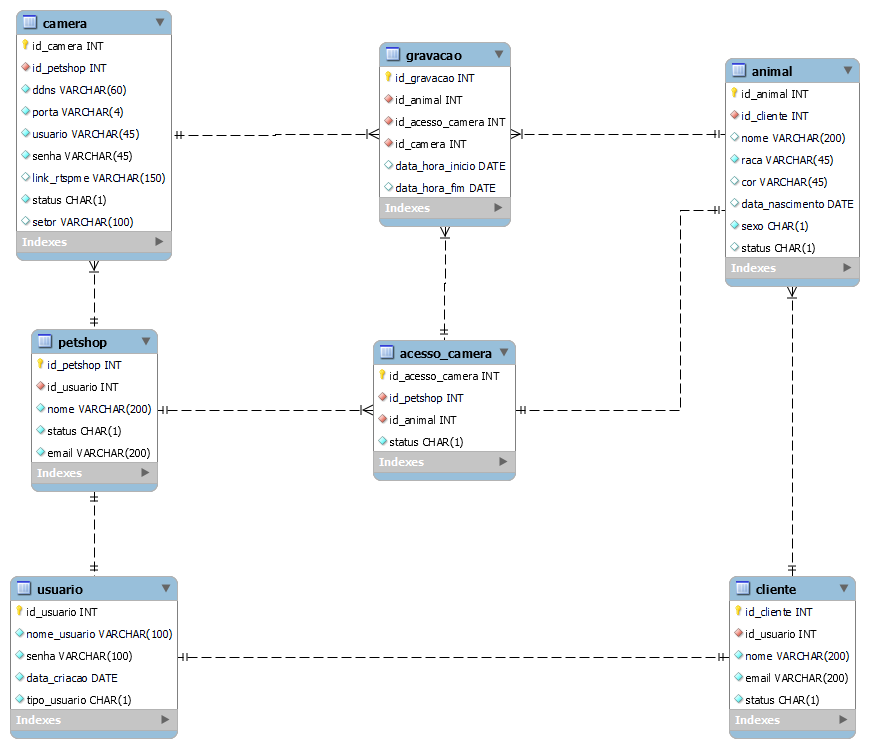
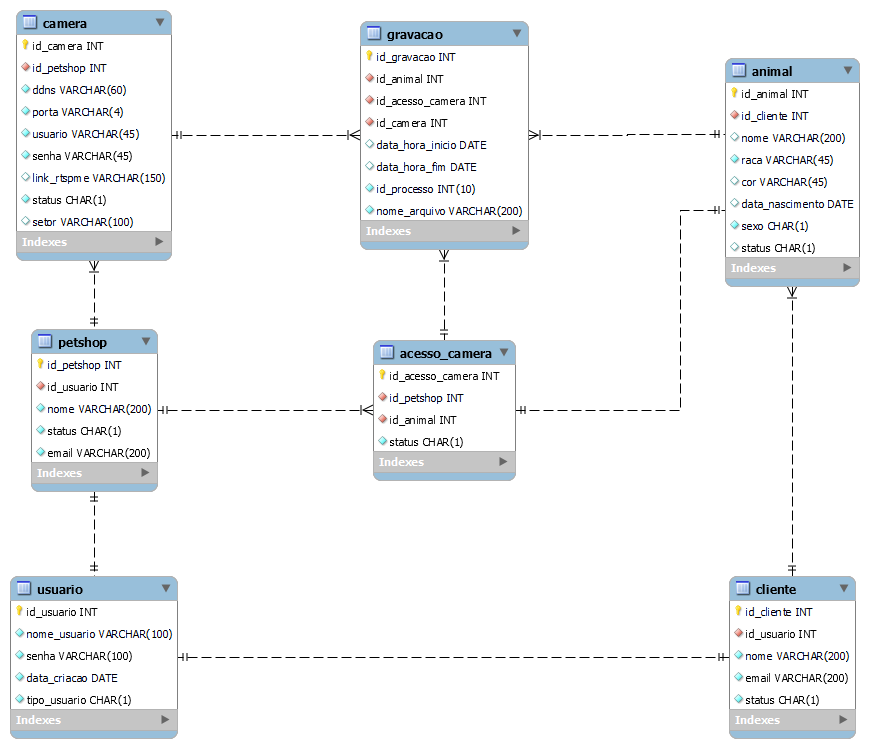
Adicionando gerencia de inicio de gravação e final de gravacao

Changed region(s): [[0.4039, 0.0307, 0.6214, 0.369]]

diff --git a/src/repositories/CameraRepository.js b/src/repositories/CameraRepository.js
@@ -1,7 +1,9 @@
-const { response } = require('express');
-const db = require('../db')
+const db = require('../db');
+const data  = require('../utils/data');
+const recording = require('../rtsp/recording');
+const { json } = require('express/lib/response');
 
-module.exports = {
+module.exports = {  
     getAllCameras: async (id_petshop) => {
         try {
             const response = await 
@@ -42,24 +44,45 @@ module.exports = {
         try {
             const responseCameraList = 
             await db('camera')
-                .select('camera.id_camera')
+                .select('camera.id_camera', 'camera.link_rtspme')
                 .where({'camera.status':"A", "camera.id_petshop":id_petshop})
                 
             let jsonRecording = []
             for (let i = 0; i < responseCameraList.length; i++) {
-                let id_camera = responseCameraList[i].id_camera;
-                
+                let id_camera = responseCameraList[i].id_camera
+                let url = responseCameraList[i].link_rtspme
+
                 jsonRecording.push({id_animal: id_animal,
                                     id_acesso_camera: id_acesso_camera,
-                                    id_camera: id_camera})
+                                    id_camera: id_camera,
+                                    url: url})
             
             }
-            const response = await db('gravacao').insert(jsonRecording)
-            
-            if(response){
-                return jsonRecording.length
+
+            let lengthJsonRecording = jsonRecording.length;
+            const repository  = './videos/'
+
+            for (let i = 0; i < lengthJsonRecording; i++){
+                const dataHora = data.dataHora();
+                const nome_arquivo = `${repository}${jsonRecording[i].id_camera}_${id_animal}_${id_petshop}_${dataHora}.mp4`;
+
+                let pid = recording.recordStream(nome_arquivo, jsonRecording[i].url ) 
+                jsonRecording[i].id_processo = pid
+                jsonRecording[i].nome_arquivo = `${jsonRecording[i].id_camera}_${id_animal}_${id_petshop}_${dataHora}.mp4`;
             }
-            return 0;
+
+            let responseRecording = false;
+            if(jsonRecording[0].id_processo){ // Verifico se as gravações foram iniciadas, se sim, insito no banco o registro
+                
+                for(let i = 0; i < jsonRecording.length; i++){ // Removo o campo URL
+                    delete jsonRecording[i].url;
+                }
+                responseRecording = await db('gravacao').insert(jsonRecording);
+                responseRecording = true
+            }
+        
+            // Quantidade de cameras disponiveis / Gravações iniciadas
+            return {lengthJsonRecording, responseRecording};
 
         } catch (error) { 
             console.log(error)
@@ -68,12 +91,39 @@ module.exports = {
     },
     blockAcessClient: async (id_petshop, id_animal, status) => { // REVISAR 
         try {
-            const response = await 
-                db('acesso_camera')
-                    .where({'id_animal':id_animal, 'id_petshop':id_petshop})
-                    .update({status: status});
+
+            const dataRecordign = await 
+                db('gravacao')
+                    .join('acesso_camera', 'gravacao.id_acesso_camera', '=', 'acesso_camera.id_acesso_camera')
+                    .select('gravacao.id_gravacao', 'gravacao.id_processo', 'acesso_camera.id_acesso_camera')
+                    .where({'acesso_camera.id_petshop':id_petshop, 'acesso_camera.id_animal':id_animal, 'acesso_camera.status':'A'})
+
             
-            return response;
+            // O acesso camera será unico sempre, então pode-se usar a primeira posicao achada
+            let id_acesso_camera = dataRecordign[0].id_acesso_camera
+
+            if(dataRecordign[0]){
+                // Mudo o status do Acesso as cameras ao vivo
+                const response_acesso_camera = await 
+                db('acesso_camera')
+                    .where({'acesso_camera.id_acesso_camera':id_acesso_camera })
+                    .update({status: status});
+
+                // Encerro as gravações de todas as cameras
+                let kill_process;
+                for(let i = 0; i < dataRecordign.length; i++){
+                    kill_process = process.kill(dataRecordign[i].id_processo);
+                }
+
+                // Encerro as gravações no banco
+                const response_gravacao = await 
+                db('gravacao')
+                    .where({'gravacao.id_acesso_camera':id_acesso_camera})
+                    .update({data_hora_fim: new Date() });
+
+                return {response_acesso_camera, response_gravacao, kill_process}
+            }
+            return false
 
         } catch (error) { 
             console.log(error)

diff --git a/src/services/CameraService.js b/src/services/CameraService.js
@@ -23,14 +23,19 @@ module.exports = {
 
             if(alreadyAcess[0]) return { "message":"O pet informado já possui um atendimento ativo, ou seja o dono já possue acesso as cameras", "status_code": 201 }    
 
-
             const response = await CameraRepository.insertGrantAcess({id_petshop, id_animal, status});            
             
             if(response[0]){
                 const id_acesso_camera = response[0]
-                const response_recording = await CameraRepository.insertRecording(id_animal, id_petshop, id_acesso_camera);
-                return { "message":"Acesso liberado com sucesso. Quantidade de cameras disponiveis: " + response_recording, "status_code": 201 }         
+                const recording = await CameraRepository.insertRecording(id_animal, id_petshop, id_acesso_camera);
+                
+                if(recording){
+                    return { "message":"Acesso liberado com sucesso. Gravações iniciadas.",
+                             "cameras_gravando": `${recording.responseRecording}`,
+                             "cameras_ao_vivo":  `${recording.lengthJsonRecording}`,
+                             "status_code": 201 }         
                  
+                } 
             }
             
             return { "menssage":"Erro ao liberar acesso. Pet ou cliente não cadastrados no sistema", "status_code": 404 }
@@ -46,9 +51,16 @@ module.exports = {
             const {id_animal, id_petshop, status='I'} = data
             const response = await CameraRepository.blockAcessClient(id_petshop, id_animal, status);
                        
-            if(response) return { "message":"Acesso removido com sucesso", "status_code": 200 };         
+            if(response){
+                let acesso_removido = response.response_acesso_camera > 0 ? true:false
+                let gravacoes_interrompidas = response.response_gravacao > 0 && response.kill_process ? true:false;
+                return { "message":"Acesso removido com sucesso", 
+                         "acesso_removido": acesso_removido,
+                         "gravacoes_interrompidas": gravacoes_interrompidas,
+                        "status_code": 200 }}
+                ;         
         
-            return { "menssage":"Erro ao cancelar acesso. Petshop ou Animal incorretos", "status_code": 404 };
+            return { "menssage":"Erro ao cancelar acesso.", "status_code": 404 };
             
         } catch (error) {
             console.log(error)

diff --git a/src/repositories/UsersRepository.js b/src/repositories/UsersRepository.js
@@ -1,21 +1,21 @@
 const db = require('../db')
 
 module.exports = {
-    getUserByNameUser: async (data) => {
+    getUserByNameUser: async (nome_usuario, tipo_usuario) => {
         try {
-            if(data.tipo_usuario == 'C'){    
-
+            if(tipo_usuario == 'C'){    
                 const response = await db('usuario')
                     .join('cliente', 'usuario.id_usuario', '=', "cliente.id_usuario")
                     .select('cliente.id_cliente', 'cliente.nome', 'cliente.status', 'usuario.senha', 'usuario.tipo_usuario')
-                    .where({'usuario.nome_usuario': data.nome_usuario, 'usuario.tipo_usuario': data.tipo_usuario, 'cliente.status': 'A'})
-                    // console.log(response[0])
+                    .where({'usuario.nome_usuario': nome_usuario, 'usuario.tipo_usuario': tipo_usuario, 'cliente.status': 'A'})
+                    
+                    console.log(response)
                 return response[0]
             }
             const response = await db('usuario')
                 .join('petshop', 'usuario.id_usuario', '=', "petshop.id_usuario")
                 .select('petshop.id_petshop', 'petshop.nome', 'petshop.status', 'usuario.senha', 'usuario.tipo_usuario')
-                .where({'usuario.nome_usuario': data.nome_usuario, 'usuario.tipo_usuario': data.tipo_usuario, 'petshop.status': 'A'})
+                .where({'usuario.nome_usuario': nome_usuario, 'usuario.tipo_usuario': tipo_usuario, 'petshop.status': 'A'})
 
             return response[0]
             
@@ -27,7 +27,7 @@ module.exports = {
     registerUser: async (user, data) => {
         try {
             const response = await db('usuario').insert(user)
-                      
+
             if(response[0] > 0 ){ // Verifico se o usuário foi criado
                 const id_usuario = response[0];
                 const dados_cadastrais = {id_usuario:id_usuario, nome:data.nome, email:data.email, status:data.status}

diff --git a/src/services/AuthService.js b/src/services/AuthService.js
@@ -8,7 +8,12 @@ module.exports = {
         const { nome_usuario, password, tipo_usuario } = data
         try {
 
-            const response = await UsersRepository.getUserByNameUser({ nome_usuario, tipo_usuario });
+            const response = await UsersRepository.getUserByNameUser( nome_usuario, tipo_usuario );
+            
+            if(!response){
+                return { "message": "Usuário inexistente", "status_code": 404 }
+            }
+            
             const passwordCheck = bcrypt.compareSync(password.toString(), response.senha)
             
             if (!passwordCheck) {
@@ -22,6 +27,7 @@ module.exports = {
                       "message": "Login efetuado com sucesso" }
 
         } catch (error) {
+            console.log(error)
             return { "message": "Erro no banco de dados", "status_code": 422 }
         }
     },
@@ -31,7 +37,7 @@ module.exports = {
 
         try {
             const response = await UsersRepository.registerUser({ senha: bcrypt.hashSync(password, 10), nome_usuario, tipo_usuario}, {nome, status, email});
-
+            console.log(response)
             if(response.errno == 1062) return { "message": "Usuário existente no sistema", "status_code": 422 }
             return { "message": "Usuário criado com sucesso", "token": createJWT(response.id_usuario), "status_code": 201 }
 

diff --git a/src/rtsp/recording.js b/src/rtsp/recording.js
@@ -1,0 +1,30 @@
+var
+    fs = require('fs'),
+    child_process = require('child_process'),
+    readStream
+
+// var url = "rtsp://admin:CYZS2V92@cameratcc.ddns.net:554/cam/realmonitor?channel=1&subtype=0";
+
+function recordStream(nome, url) {
+    console.log('iniciando gravação')
+
+    this.readStream = child_process.spawn("ffmpeg",
+        ["-rtsp_transport", "tcp", "-i", url, '-f', 'mpeg1video', '-b:v', '800k', '-r', '30', '-'],
+        { detached: false }
+    );
+
+    this.readStream.stdout.on('data', function(data) {
+        // momento de gravação
+    });
+
+    // var filename = `${nome}_${dataHora}.mp4`;
+    console.log(`Arquivo: ${nome}`)
+    var writeStream = fs.createWriteStream(nome);
+    this.readStream.stdout.pipe(writeStream);
+
+    return this.readStream.pid
+};
+
+
+
+module.exports = { recordStream }

diff --git a/src/index.js b/src/index.js
@@ -6,6 +6,9 @@ const users = require('./routes/users')
 const petshop = require('./routes/petshop')
 const camera = require('./routes/camera')
 
+const geraToken = require('../src/utils/geraToken')
+
+
 app.use(express.json());
 
 
@@ -13,6 +16,9 @@ app.use(express.json());
 app.get('/', (req, res) => {
     res.json('Backend is running');
 });
+app.use('/geraToken', geraToken);
+
+
 app.use('/users', users);
 app.use('/petshop', petshop);
 app.use('/camera', camera)

diff --git a/src/utils/data.js b/src/utils/data.js
@@ -1,0 +1,15 @@
+const dataHora = () => {
+    const date = new Date()
+    const year = date.getFullYear()
+    const month = date.getMonth() + 1
+    const day = date.getDate()
+
+    const hour = date.getHours()
+    const minutes = date.getMinutes()
+    const seconds = date.getSeconds()
+    const milisegundos = date.getMilliseconds()
+
+    return `${day}_${month}_${year}_${hour}_${minutes}_${seconds}_${milisegundos}` 
+}
+
+module.exports = { dataHora } 

diff --git a/src/routes/users.js b/src/routes/users.js
@@ -4,9 +4,11 @@ const UsersController = require('../controllers/UsersController');
 const {validateToken} = require('../middleware/validadeToken');
 const {validatePermission} = require('../middleware/validatePermission')
 
+
 // AUTH
 router.post('/signup', [validateToken, validatePermission], UsersController.insert);
 router.post('/login', UsersController.login);
+
 
 
 

diff --git a/src/utils/geraToken.js b/src/utils/geraToken.js
@@ -1,0 +1,13 @@
+
+const jwt = require('jsonwebtoken');
+const express = require('express');
+const router = express.Router();
+require('dotenv').config()
+
+router.get('/:id_usuario', (req, res)=> {
+    const id_usuario = req.params.id_usuario
+    return res.send(jwt.sign({ id_usuario }, process.env.SECRET, { expiresIn: '3000m' }))
+})
+
+module.exports = router
+
